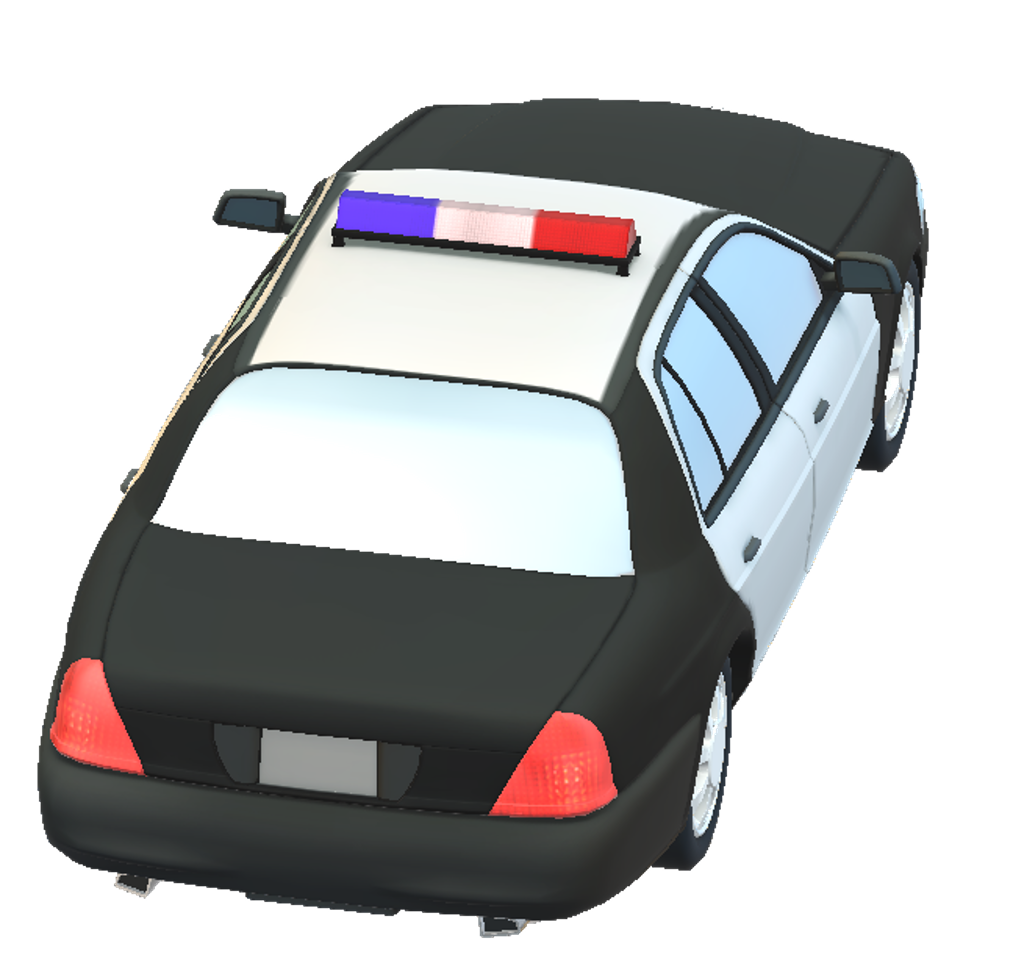
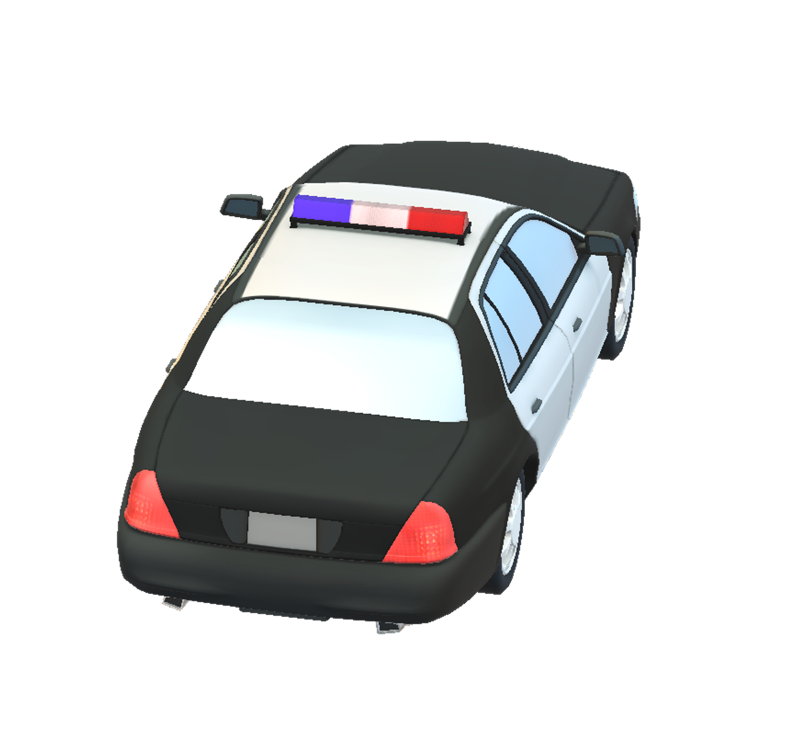
update image

diff --git a/src/GraphBoard.java b/src/GraphBoard.java
@@ -44,7 +44,7 @@ public class GraphBoard extends JFrame {
 	 * loadResource - Load all graph resources that are configured in the cfg file.
 	 */
 	private void loadResource(String cfgFilePath) throws IOException, InterruptedException {
-		int bgAll = 8;
+		int bgAll = 9;
 		int bdAll = 3;
 		int carAll = 5;
 		BufferedReader reader = new BufferedReader(new FileReader(cfgFilePath));
@@ -62,7 +62,7 @@ public class GraphBoard extends JFrame {
 		for (int i = 0; i < carAll; i++) {
 			line = reader.readLine();
 			Image img = getImage(line);
-			Image smallImg = img.getScaledInstance(200, 200, Image.SCALE_SMOOTH);
+			Image smallImg = img.getScaledInstance(400, 400, Image.SCALE_SMOOTH);
 			carList.add(smallImg);
 		}
 	}
@@ -102,14 +102,14 @@ public class GraphBoard extends JFrame {
     @Override
 	public void paint(Graphics g) {
 		g.drawImage(bgList.get(routeIndex), 0, 0, this);
-		g.drawImage(carList.get(carIndex), carPos, 450, this);
+		g.drawImage(carList.get(carIndex), carPos, 300, this);
 		for (Building b : buildings) {
 			g.drawImage(bdList.get(b.buildingType), b.x, b.y, this);
 		}
 
 	}
 
-	public int carPos = 550;
+	public int carPos = 350;
 	public static int midX = 550; // to put a car in the center
 
 	public GraphBoard() throws IOException, InterruptedException {
@@ -117,7 +117,8 @@ public class GraphBoard extends JFrame {
 		setVisible(true);
 		graph = this.getGraphics();
 		loadResource("car.cfg");
-		graph.drawImage(bgList.get(routeIndex), 0, 0, this);
-		graph.drawImage(carList.get(carIndex), carPos, 450, this);
+		this.repaint();
+//		graph.drawImage(bgList.get(routeIndex), 0, 0, this);
+//    	graph.drawImage(carList.get(carIndex), carPos, 300, this);
 	}
 }
